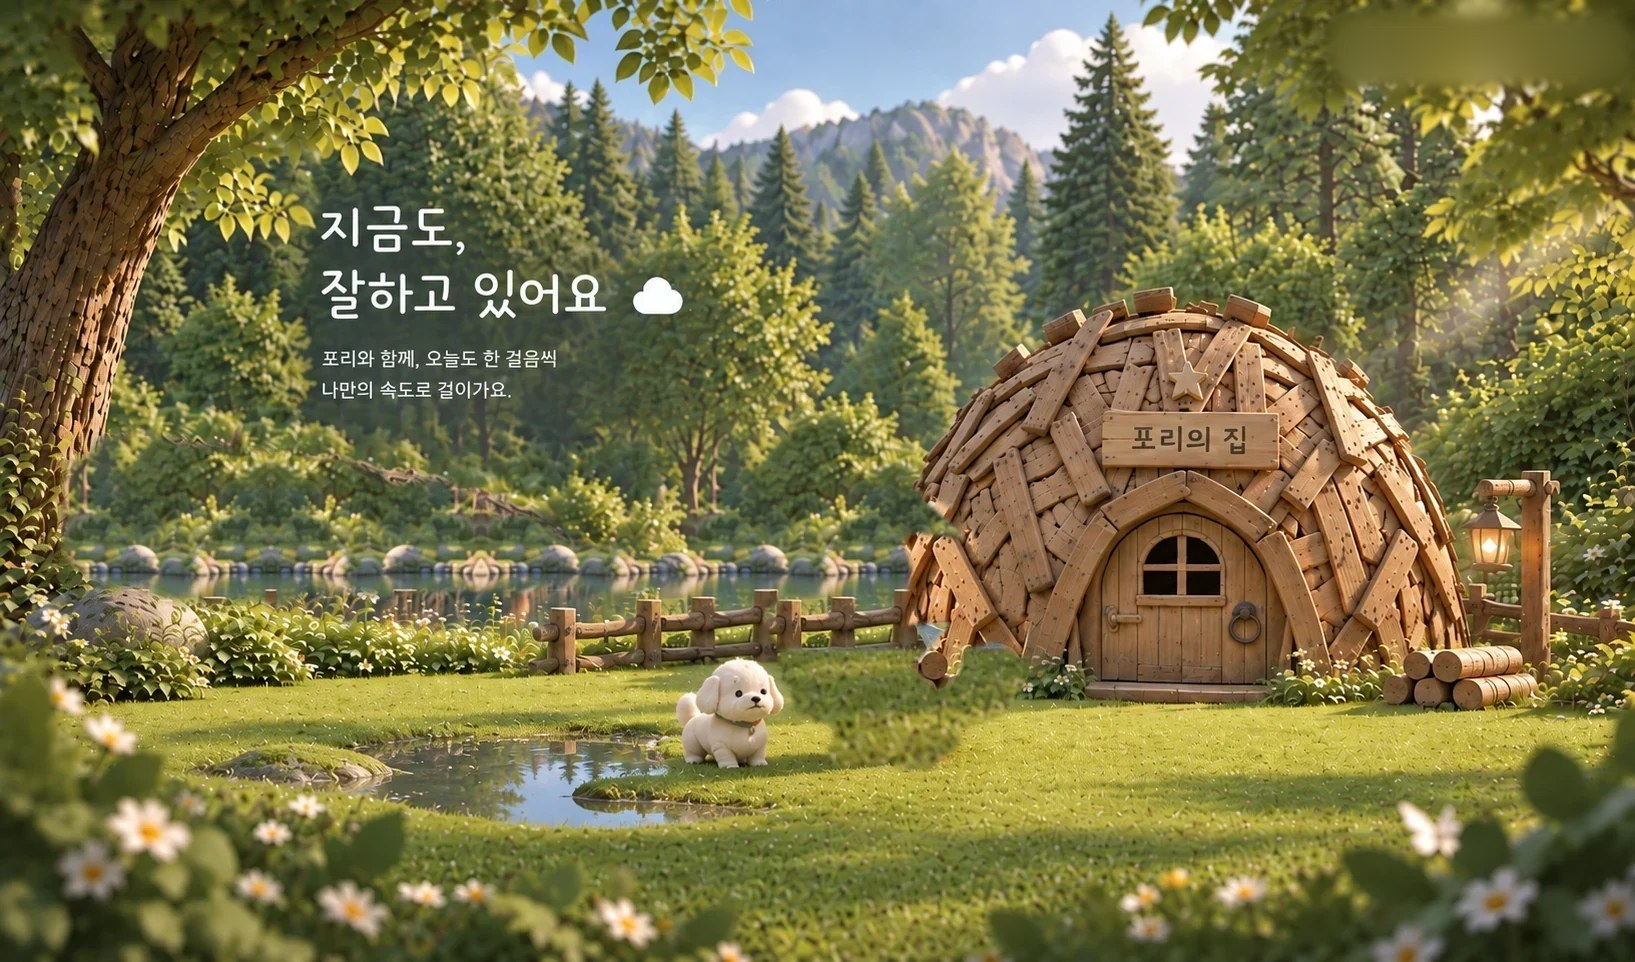
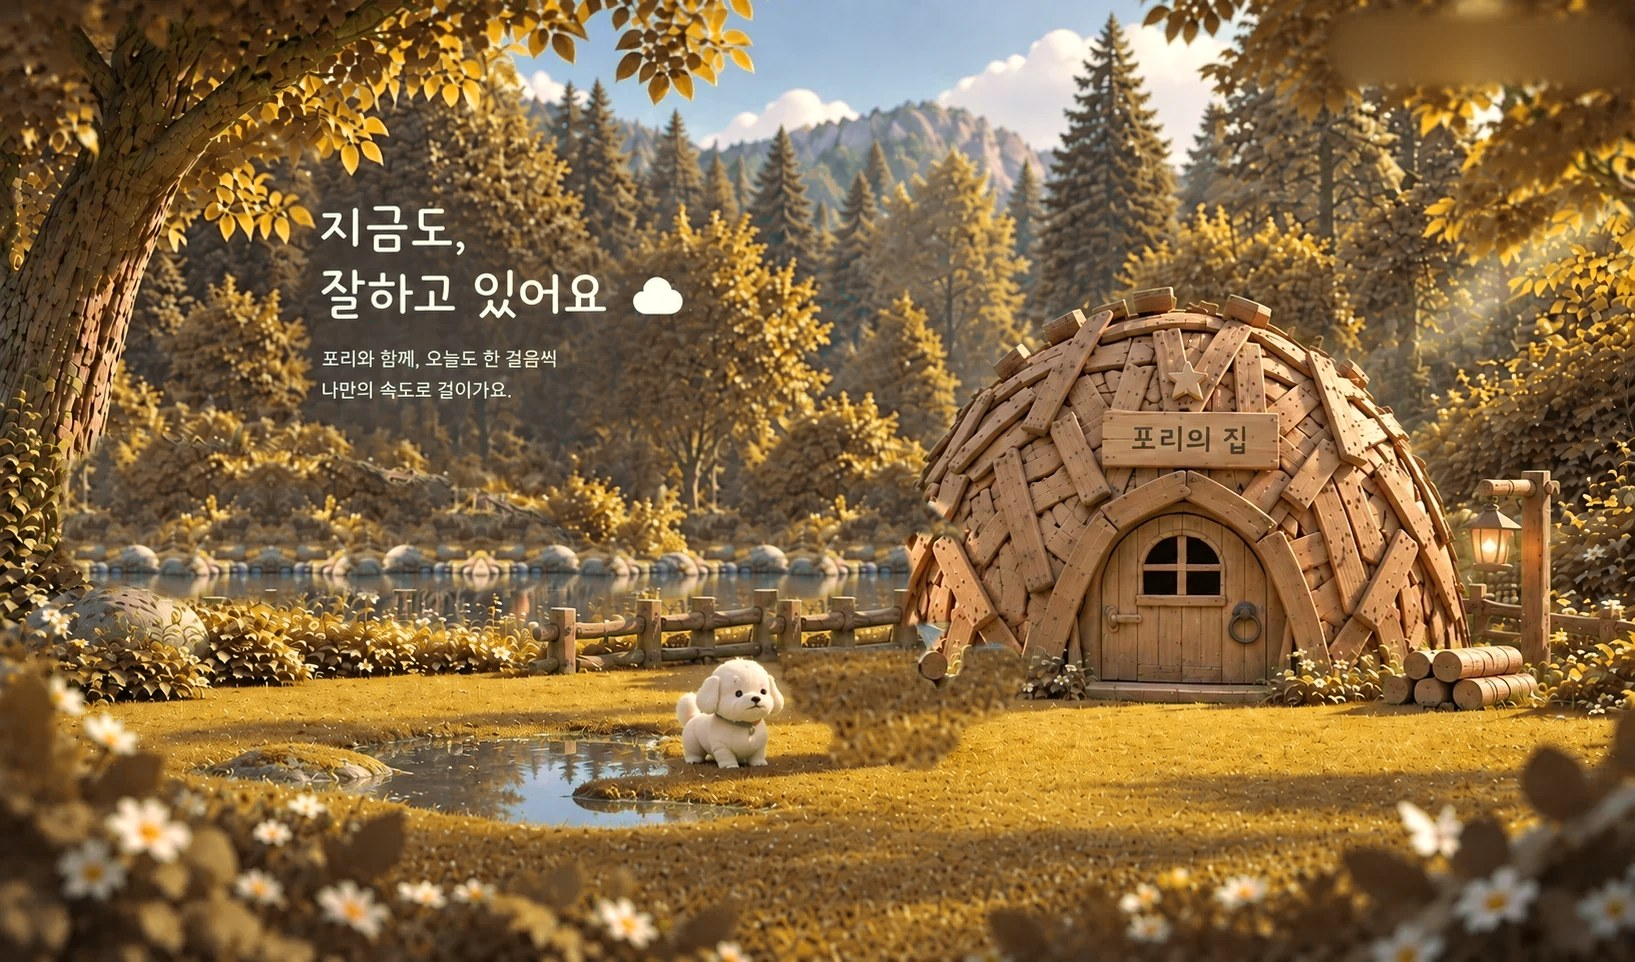
feat: 메인 화면 숲을 가을로 물들인다
새 그림이 없으니 있는 그림의 색을 옮겼다. 초록 계열만 골라 호박색~금빛
으로 보내고, 하늘과 물의 파랑은 그대로 뒀다 — 팔레트의 Azure Sky 와
이미 같은 자리다. 나무 줄기·집 같은 갈색도 건드리지 않았다.

처음엔 폭을 넓게 잡아 어두운 잎을 적갈색까지 보냈더니 그늘이 진흙색이
되어 죽은 숲처럼 보였다. 호박(0.082)~금빛(0.118) 사이로 좁히니 늦가을
빛으로 읽힌다. 밝기에 따라 목적지를 나눠 단풍이 납작해지지 않게 했다.

화면 전체 픽셀의 68.6% 가 단풍이 됐다. 그림 밖으로 비어져 나오는
바탕색(--forest)과 로그아웃 칩도 가을색으로 맞췄다.

댐 두 상태와 붕괴 연출은 그대로 어울린다 — 나무·콘크리트·물은 원래
초록이 아니었다.

diff --git a/public/css/scene.css b/public/css/scene.css
@@ -10,7 +10,7 @@
  * ========================================================================== */
 
 :root{
-  --forest:#112615;
+  --forest:#2E1D0E;   /* 가을 숲 — 그림 밖으로 비어져도 화면과 이어진다 */
   --ink:#24331f;
   --muted:#64705d;
   --ring:0 0 0 2px rgba(255,255,255,.9), 0 12px 34px rgba(0,0,0,.18);
@@ -304,7 +304,7 @@ body.show-map .label{opacity:1;transform:translateY(0)}
 .scenery .dam{position:absolute;display:block;
   /* 그림자가 없으면 공중에 뜬 스티커로 보인다.
      drop-shadow 는 실루엣을 따라가므로 잔가지 결까지 살아난다. */
-  filter:drop-shadow(0 5px 6px rgba(24,38,22,.42)) drop-shadow(0 1px 1px rgba(24,38,22,.3))}
+  filter:drop-shadow(0 5px 6px rgba(56,34,14,.42)) drop-shadow(0 1px 1px rgba(56,34,14,.3))}
 .scenery .dam-branch{left:-6.50%;top:41.58%;width:35.96%;height:26.40%}
 .scenery .dam-built {left:-6.50%;top:43.76%;width:27.95%;height:24.22%}
 body[data-goal="y"]:not([data-dam="over"]) .dam-branch{display:none}
@@ -391,9 +391,9 @@ body[data-auth="in"] .auth{display:none}
 /* 둘이 붙어 하나의 알약이 된다 */
 .me .nm   {border-radius:999px 0 0 999px;background:#fff;color:var(--ink)}
 /* 반투명이면 아래 흰 버튼이 비쳐 올라온다 — 불투명해야 한다 */
-.me button{border-radius:0 999px 999px 0;background:#16250F;color:#fff;
+.me button{border-radius:0 999px 999px 0;background:#5C3A16;color:#fff;
   border:0;cursor:pointer;transition:.14s}
-.me button:hover{background:#0B1606}
+.me button:hover{background:#42280E}
 
 /* ───────────────────────── 도구 · 안내 ───────────────────────── */
 .tools{position:absolute;left:20px;top:20px;z-index:30;display:flex;gap:9px}
@@ -646,7 +646,7 @@ body[data-dam="over"] .fauna .f-pori{
   padding:11px 15px;border-radius:15px;
   background:rgba(255,255,255,.95);color:#4B2A16;
   font-size:13px;line-height:1.5;font-weight:700;letter-spacing:-.2px;
-  filter:drop-shadow(0 6px 16px rgba(24,38,22,.30));
+  filter:drop-shadow(0 6px 16px rgba(56,34,14,.30));
   animation:warnIn .5s ease-out 1.25s both
 }
 .damwarn b{color:#C9553F}
